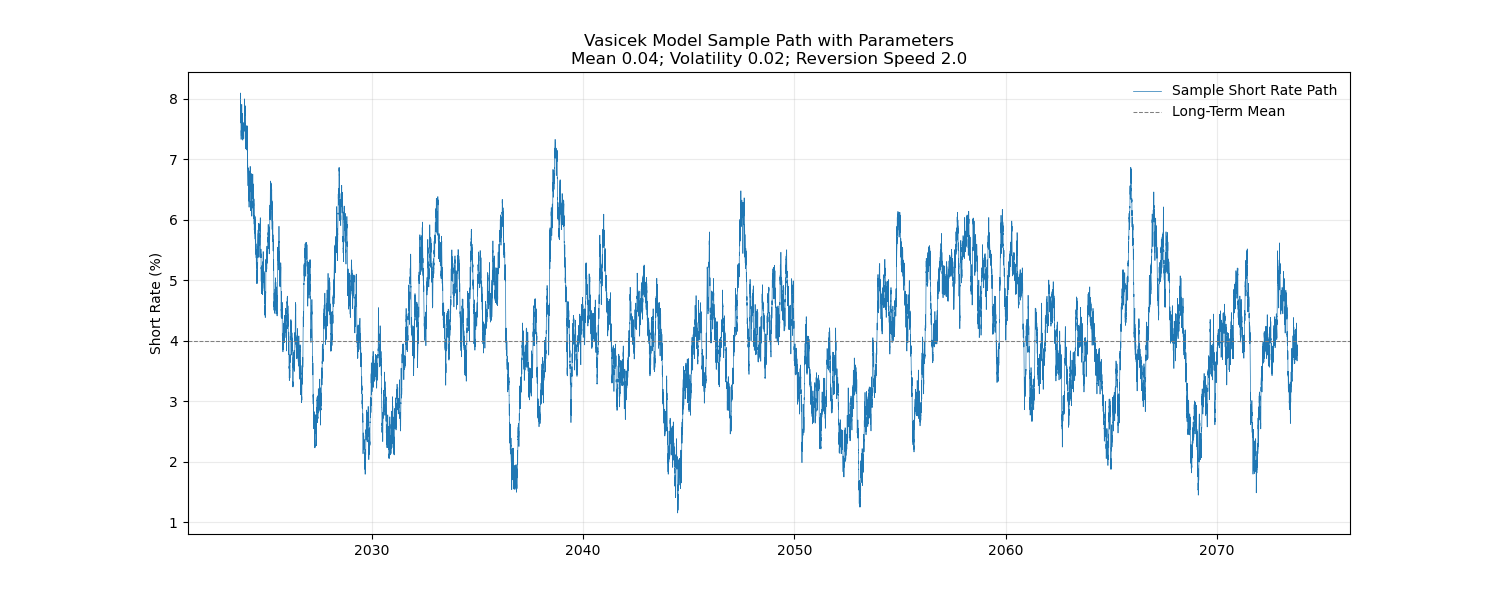
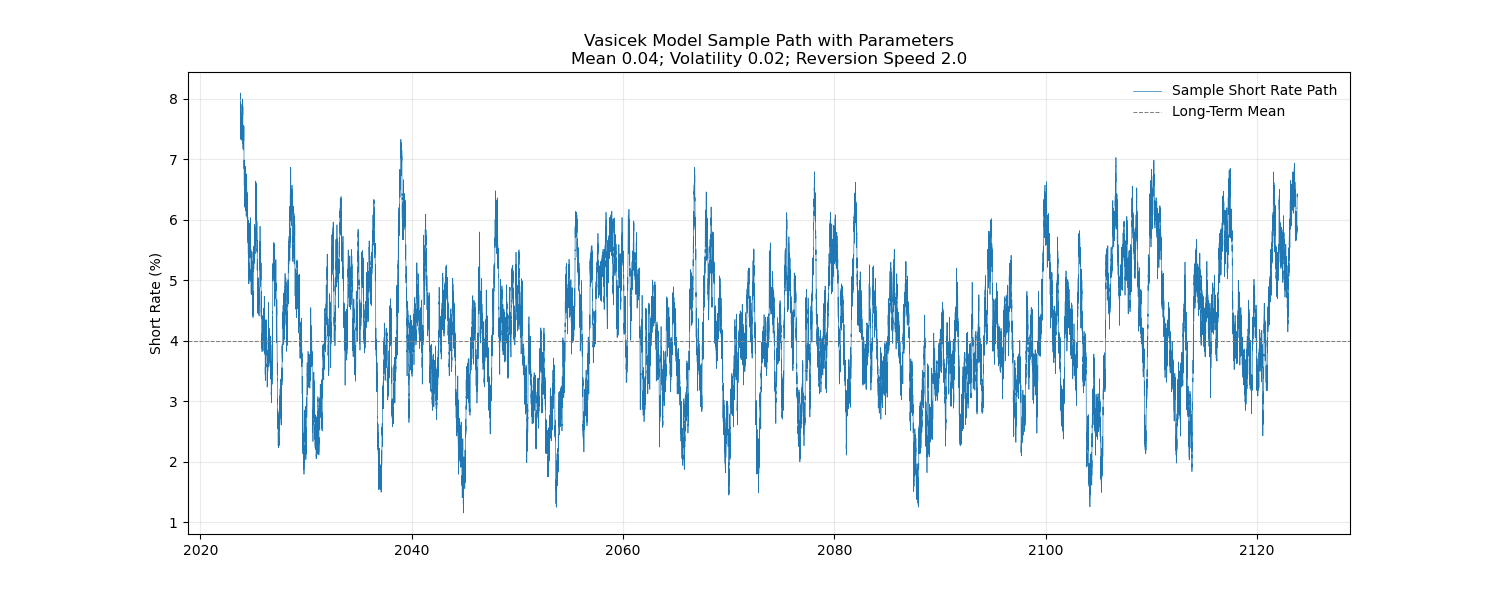
Refactored the short rate models to modularize the compuations of integrating the short rate sample path, constructing the compounded accrual path, and constructing the discount curve. New image displaying the convexity correction needed for the Vasicek model.

diff --git a/fixedIncome/src/stochastics/short_rate_models/base_short_rate_model.py b/fixedIncome/src/stochastics/short_rate_models/base_short_rate_model.py
@@ -1,4 +1,4 @@
-from datetime import datetime, time
+from datetime import date, datetime, time
 from dateutil.relativedelta import relativedelta
 import numpy as np
 import math
@@ -10,7 +10,7 @@ from fixedIncome.src.scheduling_tools.day_count_calculator import DayCountCalcul
 from fixedIncome.src.stochastics.brownian_motion import datetime_to_path_call, BrownianMotion
 from fixedIncome.src.scheduling_tools.day_count_calculator import DayCountConvention
 from fixedIncome.src.scheduling_tools.scheduler import Scheduler
-from fixedIncome.src.curves.base_curve import DiscountCurve, KnotValuePair
+from fixedIncome.src.curves.base_curve import DiscountCurve, KnotValuePair, Curve
 from fixedIncome.src.curves.curve_enumerations import CurveIndex, EndBehavior, InterpolationMethod
 
 class DriftDiffusionPair(NamedTuple):
@@ -27,11 +27,12 @@ class ShortRateModel:
                  ) -> None:
         self.drift_diffusion_collection = drift_diffusion_collection
         self.brownian_motion = brownian_motion
-        self._discount_factor_snap_time: time = time(17, 0, 0, 0)  # 5 PM Snap time
-        self._path = None
         self._dt = dt
         self._rate_index = 0  # row index of the self.path numpy array which corresponds to the short rate
-                             # Subclass models will often generate multiple different intermediary rates/values
+                              # Subclass models will often generate multiple different intermediary rates/values
+        self._path = None
+        self._integrated_path = None
+        self._continuously_compounded_accrual_path = None
         self._discount_curve = None
 
     @property
@@ -46,8 +47,18 @@ class ShortRateModel:
         return self._dt
 
     @property
+    def integrated_path(self) -> np.array:
+        return self._integrated_path
+
+    @property
     def discount_curve(self) -> Optional[DiscountCurve]:
         return self._discount_curve
+
+    def _reset_paths_and_curves(self) -> None:
+        self._path = None
+        self._integrated_path = None
+        self._continuously_compounded_accrual_path = None
+        self._discount_curve = None
 
     def set_dt(self, new_dt: float) -> None:
         """ Sets a new increment dt. The old path is set to None because any path
@@ -83,24 +94,26 @@ class ShortRateModel:
         SDE collection provided when the object was instantiated.
         """
 
-
-    def discount_curve(self, start_date_time: Optional[datetime] = None,
-                       end_date_time: Optional[datetime] = None,
-                       curve_index: CurveIndex = CurveIndex.NONE,
-                       day_count_convention: DayCountConvention = DayCountConvention.ACTUAL_OVER_ACTUAL) -> DiscountCurve:
-
+    def generate_integrated_path(self,
+                        start_date_time: Optional[datetime] = None,
+                        end_date_time: Optional[datetime] = None,
+                        datetimes: Optional[list[datetime | date]] = None,
+                        ) -> np.array:
+        """
+        """
         if self.path is None:
             raise ValueError("Path is currently None. First generate a sample path of spot rates.")
 
         start_date_time = self.brownian_motion.start_date_time if start_date_time is None else start_date_time
         end_date_time = self.brownian_motion.end_date_time if end_date_time is None else end_date_time
-
-        datetimes = Scheduler.generate_dates_by_increments(start_date=start_date_time,
-                                                           end_date=end_date_time,
-                                                           increment=relativedelta(seconds=self.dt * DayCountCalculator.SECONDS_PER_YEAR),
-                                                           max_dates=1_000_000)
+        if datetimes is None:
+            datetimes = Scheduler.generate_dates_by_increments(start_date=start_date_time,
+                                                               end_date=end_date_time,
+                                                               increment=relativedelta(seconds=self.dt * DayCountCalculator.SECONDS_PER_YEAR),
+                                                               max_dates=1_000_000)
         running_integral = 0.0
-        interpolation_values = [KnotValuePair(start_date_time, 1.0)]
+        interpolation_values = [0.0]
+
         for start_dt, end_dt in itertools.pairwise(datetimes):
             start_rate, end_rate = self(start_dt)[self.rate_index], self(end_dt)[self.rate_index]
             min_rate, max_rate = min(start_rate, end_rate), max(start_rate, end_rate)
@@ -111,18 +124,79 @@ class ShortRateModel:
                 next_trapezoid_val = min_rate * self.dt + (max_rate - min_rate) * self.dt / 2
             # compute integral
             running_integral += next_trapezoid_val
-            interpolation_values.append(KnotValuePair(end_dt, math.exp(-running_integral)))
+            interpolation_values.append(running_integral)
 
-        if self._discount_curve is None:
-            self._discount_curve = DiscountCurve(interpolation_values=interpolation_values,
-                                                 interpolation_method=InterpolationMethod.LINEAR,
-                                                 index=curve_index,
-                                                 interpolation_day_count_convention=day_count_convention,
-                                                 reference_date=self.brownian_motion.start_date_time,
-                                                 left_end_behavior=EndBehavior.ERROR,
-                                                 right_end_behavior=EndBehavior.ERROR)
-        else:
-            self._discount_curve.reset_interpolation_values(interpolation_values)
+        self._integrated_path = np.array(interpolation_values)
+        return self._integrated_path
+
+    def accrual_curve(self,
+                      start_date_time: Optional[datetime] = None,
+                      end_date_time: Optional[datetime] = None,
+                      datetimes: Optional[list[datetime | date]] = None,
+                      day_count_convention: DayCountConvention = DayCountConvention.ACTUAL_OVER_ACTUAL
+                      ) -> Curve:
+        """
+        """
+        if self.path is None:
+            raise ValueError("Path is currently None. First generate a sample path of spot rates.")
+
+        start_date_time = self.brownian_motion.start_date_time if start_date_time is None else start_date_time
+        end_date_time = self.brownian_motion.end_date_time if end_date_time is None else end_date_time
+        if datetimes is None:
+            datetimes = Scheduler.generate_dates_by_increments(start_date=start_date_time,
+                                                               end_date=end_date_time,
+                                                               increment=relativedelta(seconds=self.dt * DayCountCalculator.SECONDS_PER_YEAR),
+                                                               max_dates=1_000_000)
+
+        if self._integrated_path is None:
+            self.generate_integrated_path(start_date_time, end_date_time, datetimes)
+
+        compound_interpolation_values = [KnotValuePair(start_date_time, 1.0)]
+        compound_interpolation_values += [KnotValuePair(datetime_obj, math.exp(integral))
+                                          for datetime_obj, integral in zip(datetimes, self._integrated_path)]
+
+        self._continuously_compounded_accrual_curve = Curve(interpolation_values=compound_interpolation_values,
+                                                            interpolation_method=InterpolationMethod.LINEAR,
+                                                            interpolation_day_count_convention=day_count_convention,
+                                                            reference_date=start_date_time,
+                                                            left_end_behavior=EndBehavior.ERROR,
+                                                            right_end_behavior=EndBehavior.ERROR)
+
+        return self._continuously_compounded_accrual_curve
+
+
+    def discount_curve(self,
+                       start_date_time: Optional[datetime] = None,
+                       end_date_time: Optional[datetime] = None,
+                       datetimes: Optional[list[datetime | date]] = None,
+                       curve_index: CurveIndex = CurveIndex.NONE,
+                       day_count_convention: DayCountConvention = DayCountConvention.ACTUAL_OVER_ACTUAL) -> DiscountCurve:
+
+        if self.path is None:
+            raise ValueError("Path is currently None. First generate a sample path of spot rates.")
+
+        start_date_time = self.brownian_motion.start_date_time if start_date_time is None else start_date_time
+        end_date_time = self.brownian_motion.end_date_time if end_date_time is None else end_date_time
+        if datetimes is None:
+            datetimes = Scheduler.generate_dates_by_increments(start_date=start_date_time,
+                                                               end_date=end_date_time,
+                                                               increment=relativedelta(seconds=self.dt * DayCountCalculator.SECONDS_PER_YEAR),
+                                                               max_dates=1_000_000)
+
+        if self._integrated_path is None:
+            self.generate_integrated_path(start_date_time, end_date_time, datetimes)
+
+        discount_interpolation_values = np.exp(-self._integrated_path)
+        discount_knot_values = [KnotValuePair(dateobj, df)
+                                for dateobj, df in zip(datetimes, discount_interpolation_values)]
+
+        self._discount_curve = DiscountCurve(interpolation_values=discount_knot_values,
+                                             interpolation_method=InterpolationMethod.LINEAR,
+                                             index=curve_index,
+                                             interpolation_day_count_convention=day_count_convention,
+                                             reference_date=self.brownian_motion.start_date_time,
+                                             left_end_behavior=EndBehavior.ERROR,
+                                             right_end_behavior=EndBehavior.ERROR)
 
         return self._discount_curve
 

diff --git a/fixedIncome/src/stochastics/short_rate_models/one_factor_models/vasicek_model.py b/fixedIncome/src/stochastics/short_rate_models/one_factor_models/vasicek_model.py
@@ -5,7 +5,7 @@ Reference, *Fixed Income Securities, 4th Ed.* by Tuckman and Serrat, page 205.
 Unit tests are contained in
 fixedIncome.tests.test_stochastics.test_short_rate_models.test_one_factor_models.test_vasicek_model.py
 """
-from datetime import datetime
+from datetime import datetime, date, time
 import pandas as pd
 import numpy as np
 import matplotlib.pyplot as plt
@@ -71,6 +71,9 @@ class VasicekModel(ShortRateModel):
             self, starting_value: np.ndarray | float, set_path: bool = True, seed: Optional[int] = None
     ) -> np.ndarray:
         """ Generates the Vasicek solution path through the Euler Discretization method. """
+
+        self._reset_paths_and_curves()
+
         drift_fxcn, diffusion_fxcn = self.drift_diffusion_pair
         brownian_increments = self.brownian_motion.generate_increments(dt=self.dt, seed=seed).flatten()
         solution = np.empty((1,  len(brownian_increments)+1))
@@ -119,7 +122,11 @@ if __name__ == '__main__':
     from fixedIncome.src.scheduling_tools.scheduler import Scheduler
 
     start_time = datetime(2023, 10, 15, 0, 0, 0, 0)
-    end_time = datetime(2073, 10, 15, 0, 0, 0, 0)
+    end_time = datetime(2123, 10, 15, 0, 0, 0, 0)
+    dates = Scheduler.generate_dates_by_increments(start_date=start_time,
+                                                   end_date=end_time,
+                                                   increment=timedelta(1),
+                                                   max_dates=1_000_000)
 
     vm = VasicekModel(long_term_mean=0.04,
                       reversion_speed=2.0,
@@ -128,25 +135,21 @@ if __name__ == '__main__':
                       end_date_time=end_time)
 
     path = vm.generate_path(starting_value=0.08, set_path=True, seed=1)
+    admissible_dates = [date_obj for date_obj in dates if date_obj < vm.end_date_time]
+
     vm.plot()
     plt.savefig('../../../../../../fixedIncome/docs/images/Vasicek_Short_Rate.png')
     plt.show()
 
+    # DISCOUNT CURVES
     NUM_CURVES = 20
     plt.figure(figsize=(13, 5))
     for seed in range(NUM_CURVES):
         vm.generate_path(starting_value=0.08, set_path=True, seed=seed)
         vm_df_curve = vm.discount_curve()
-
-        dates = Scheduler.generate_dates_by_increments(start_date=start_time,
-                                                       end_date=vm_df_curve.interpolation_values[-1].knot,
-                                                       increment=timedelta(1),
-                                                       max_dates=1_000_000)
-
-        discount_factors = [vm_df_curve(date_obj) for date_obj in dates]
-        plt.plot(dates, discount_factors, color='tab:blue', alpha=1, linewidth=0.5)
+        discount_factors = [vm_df_curve(date_obj) for date_obj in admissible_dates]
+        plt.plot(admissible_dates, discount_factors, color='tab:blue', alpha=1, linewidth=0.5)
         print(seed)
-
 
     plt.grid(alpha=0.25)
     plt.title(f'Discount Curves from Continuously-Compounding {NUM_CURVES} Vasicek Model Short Rate Paths\n'
@@ -154,5 +157,41 @@ if __name__ == '__main__':
               f'Volatility {vm.volatility}; Reversion Speed {vm.reversion_speed}')
     plt.ylabel('Discount Factor')
     plt.savefig('../../../../../../fixedIncome/docs/images/Vasicek_Discount_Curves.png')
+    plt.show()
+
+    # CONVEXITY
+    NUM_CURVES = 10_000
+    vm_avg_short_rate = np.zeros((1, len(admissible_dates)))
+    vm_avg_accrual = np.zeros((1, len(admissible_dates)))
+    vm_avg_integrated_path = np.zeros((1, len(admissible_dates)))
+
+    fig, ax = plt.subplots(1, 1, figsize=(13, 5))
+    for seed in range(NUM_CURVES):
+        vm.generate_path(starting_value=0.08, set_path=True, seed=seed)
+        vm.generate_integrated_path(datetimes=admissible_dates)
+        vm_avg_integrated_path += vm._integrated_path
+        vm_avg_accrual += np.exp(vm._integrated_path)
+        print(seed)
+
+    plt.plot(admissible_dates, vm_avg_accrual.flatten() / NUM_CURVES, color='tab:blue')
+    plt.plot(admissible_dates, np.exp(vm_avg_integrated_path.flatten() / NUM_CURVES), color='darkred')
+
+    plt.grid(alpha=0.25)
+    plt.title(f'Convexity in the Vasicek Model: Averaging {NUM_CURVES} Continuously-Compounded Short Rate Paths\n'
+              f'and Continuously-Compounding the Average of All Short Rate Paths'
+              f'\nModel Parameters: Mean {vm.long_term_mean}; Volatility {vm.volatility}; Reversion Speed {vm.reversion_speed}')
+    plt.ylabel('Accrual')
+    plt.legend(['Average Individual Compounded\nPath Accruals',
+                'Compounded Accrual of the\nAverage Short Rate Path'], loc='upper left', frameon=False)
+
+    ax2 = ax.twinx()
+    convexity_adjustment = vm_avg_accrual.flatten() / NUM_CURVES - np.exp(vm_avg_integrated_path.flatten() / NUM_CURVES)
+    plt.plot(admissible_dates, convexity_adjustment, color='grey', linestyle='--')
+
+    plt.legend(['Convexity Adjustment (Right)'],
+               loc='lower right', frameon=False)
+
+    ax2.set_ylabel('Difference')
+    plt.savefig('../../../../../../fixedIncome/docs/images/Vasicek_Convexity.png')
     plt.show()
 
